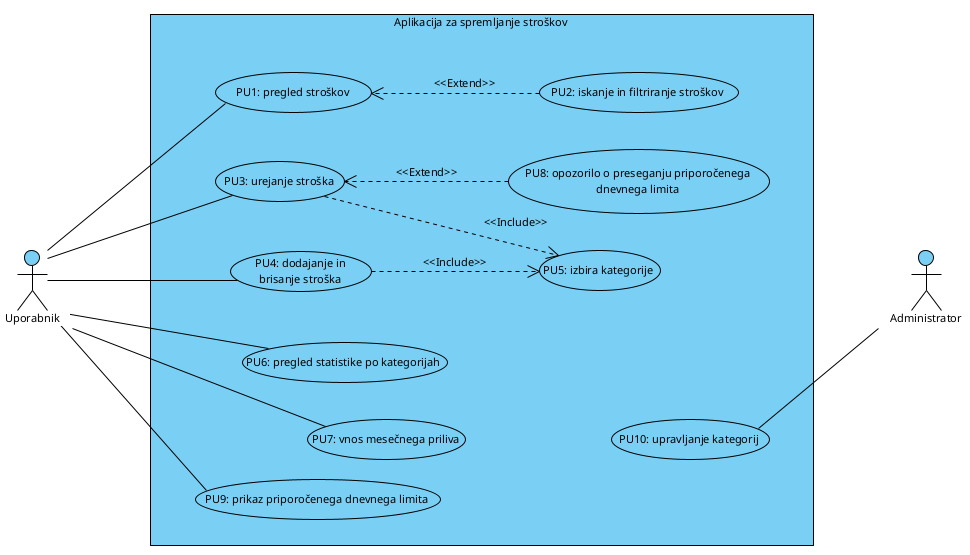
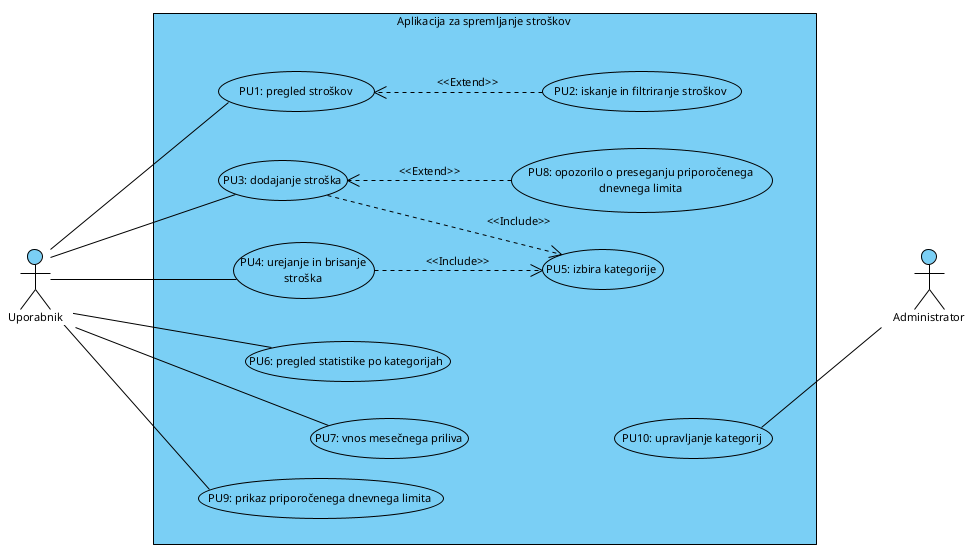
docs: popravek dpu, da je v skladu z zapisanim

diff --git a/README.md b/README.md
@@ -88,8 +88,8 @@ Diagram prikazuje ključne funkcionalnosti v načrtovani različici aplikacije.
 **Že implementirane funkcionalnosti:**\
 PU1: pregled stroškov\
 PU2: iskanje in filtriranje stroškov\
-PU3: urejanje stroška\
-PU4: dodajanje in brisanje stroška\
+PU3: dodajanje stroška\
+PU4: urejanje in brisanje stroška\
 PU5: izbira kategorije\
 PU7: vnos mesečnega priliva\
 PU8: opozorilo o preseganju priporočenega dnevnega limita\
@@ -104,7 +104,7 @@ Akterja:
 - Administrator, ki upravlja kategorije
 
 Povezave:
-- `<<include>>`: urejanje stroška (PU3) ter dodajanje in brisanje stroška (PU4) vedno vključujeta izbiro kategorije (PU5)
+- `<<include>>`: dodajanje stroška (PU3) ter urejanje in brisanje stroška (PU4) vedno vključujeta izbiro kategorije (PU5)
 - `<<extend>>`: iskanje in filtriranje stroškov (PU2) razširja pregled stroškov (PU1)
 - `<<extend>>`: opozorilo o preseganju priporočenega dnevnega limita (PU8) razširja urejanje stroška (PU3), vendar samo če strošek preseže dnevni limit
 
